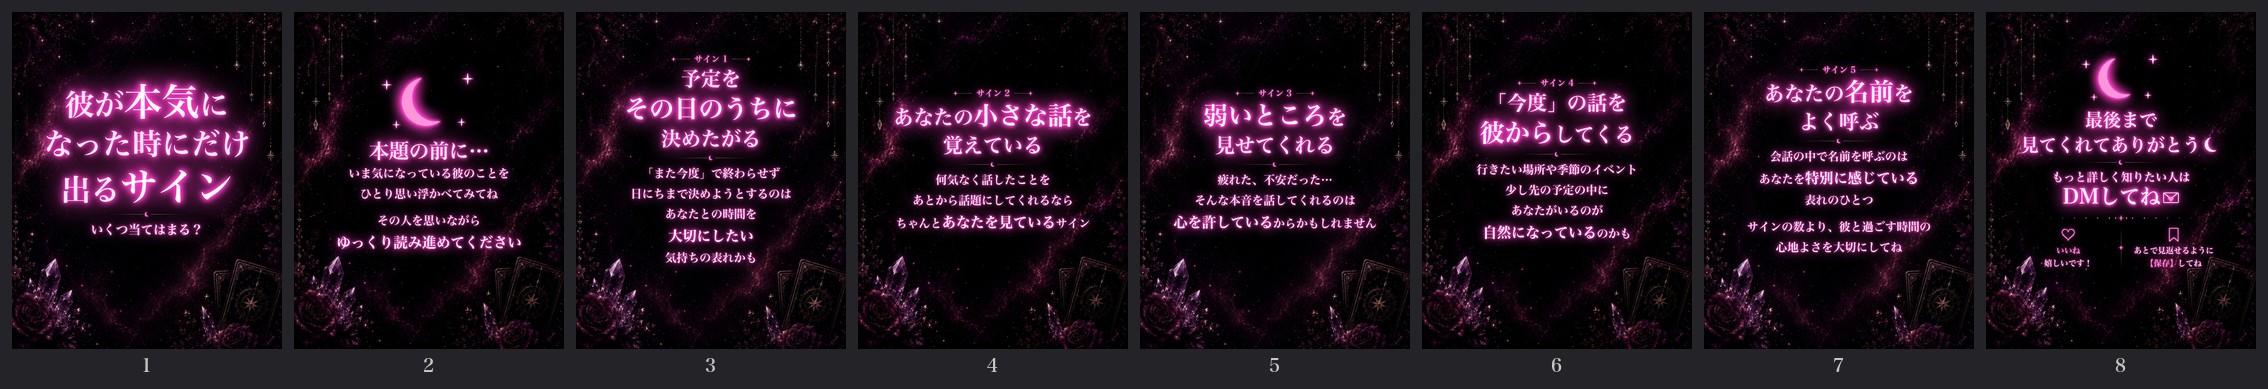
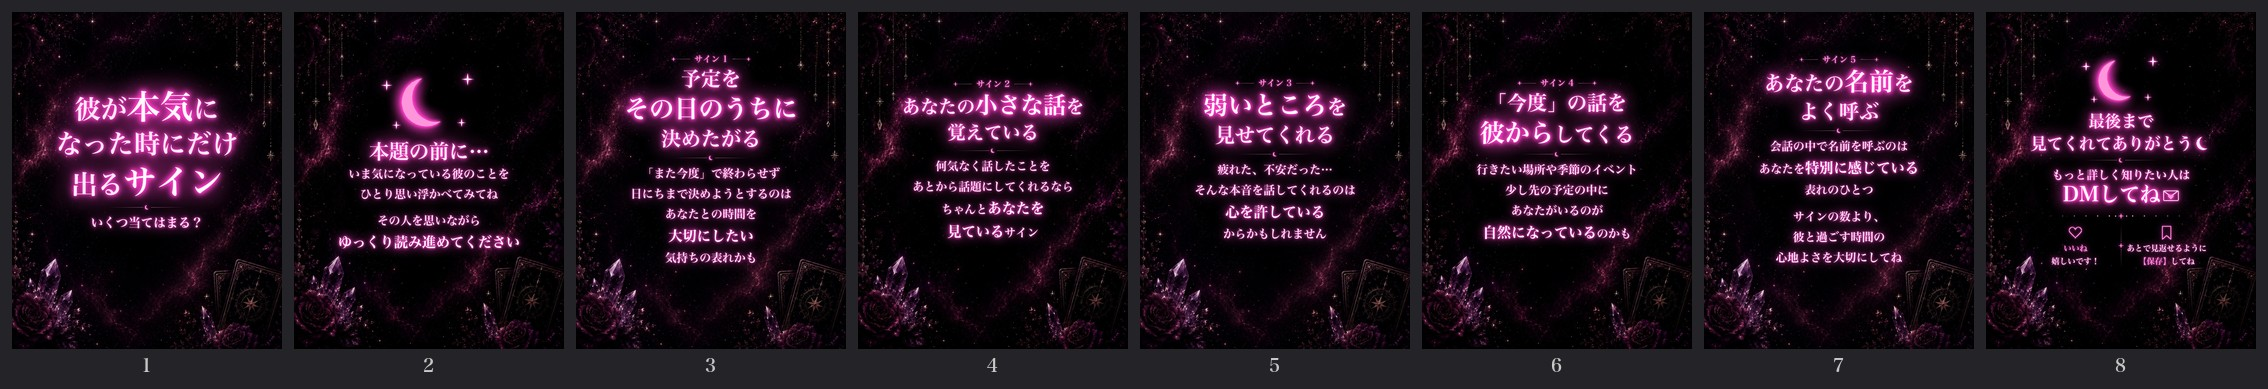
背景ありのページは左右の飾りをよけて文字幅を狭める

diff --git a/make_carousel.py b/make_carousel.py
@@ -646,13 +646,13 @@ def constellation(slide, rnd):
 # ---------------------------------------------------------------- 部品（縦に積む）
 
 class Text:
-    def __init__(self, text, role, t, size=None, emphasis=(), maxw=MAX_W, strength=None, color=None):
+    def __init__(self, text, role, t, size=None, emphasis=(), maxw=None, strength=None, color=None):
         base, self.leading, st, ckey = ROLES[role]
         self.t, self.role = t, role
         self.base = size or t["sizes"].get(role, base)
         self.strength = st if strength is None else strength
         self.color = color or t[ckey]
-        self.maxw = maxw
+        self.maxw = maxw or MAX_W  # 呼ばれたときの文字幅を使う（背景ありのページは狭くなる）
         lines = parse(text)
         self.lines0 = [[a._replace(e=True) for a in l] if i in set(emphasis) else l for i, l in enumerate(lines)]
         self.es = t["emph"] if role != "title" else t["emph"] * 1.03
@@ -1067,10 +1067,15 @@ def load_background(path):
 def render_slide(s, theme_name, seed, index, bg_path=None):
     t = THEMES[theme_name]
     rnd = random.Random(seed)
+    global SAFE_L, SAFE_R, MAX_W
+    saved = (SAFE_L, SAFE_R, MAX_W)
     if bg_path:
-        # 用意された背景（飾りや枠が描かれている）を使うときは、枠を描かず、下の飾りをよけて文字を置く
+        # 用意された背景（飾りや枠が描かれている）を使うときは、枠を描かず、
+        # 下の飾りと、左上・右上につり下がった飾りをよけるため、文字を置く範囲を内側に狭める
         slide = Slide(t, load_background(bg_path))
         top, bottom = SAFE_T + 20, H - 300
+        SAFE_L, SAFE_R = 175, W - 175
+        MAX_W = SAFE_R - SAFE_L
     else:
         slide = Slide(t, background(theme_name, t, rnd, index))
         frame(slide, theme_name)
@@ -1093,6 +1098,7 @@ def render_slide(s, theme_name, seed, index, bg_path=None):
         constellation(slide, rnd)
     if g < 1:
         slide.warnings.append(f"縦に入りきらないので {g:.2f} 倍に縮めました")
+    SAFE_L, SAFE_R, MAX_W = saved
     return slide.img.convert("RGB"), slide.warnings
 
 
